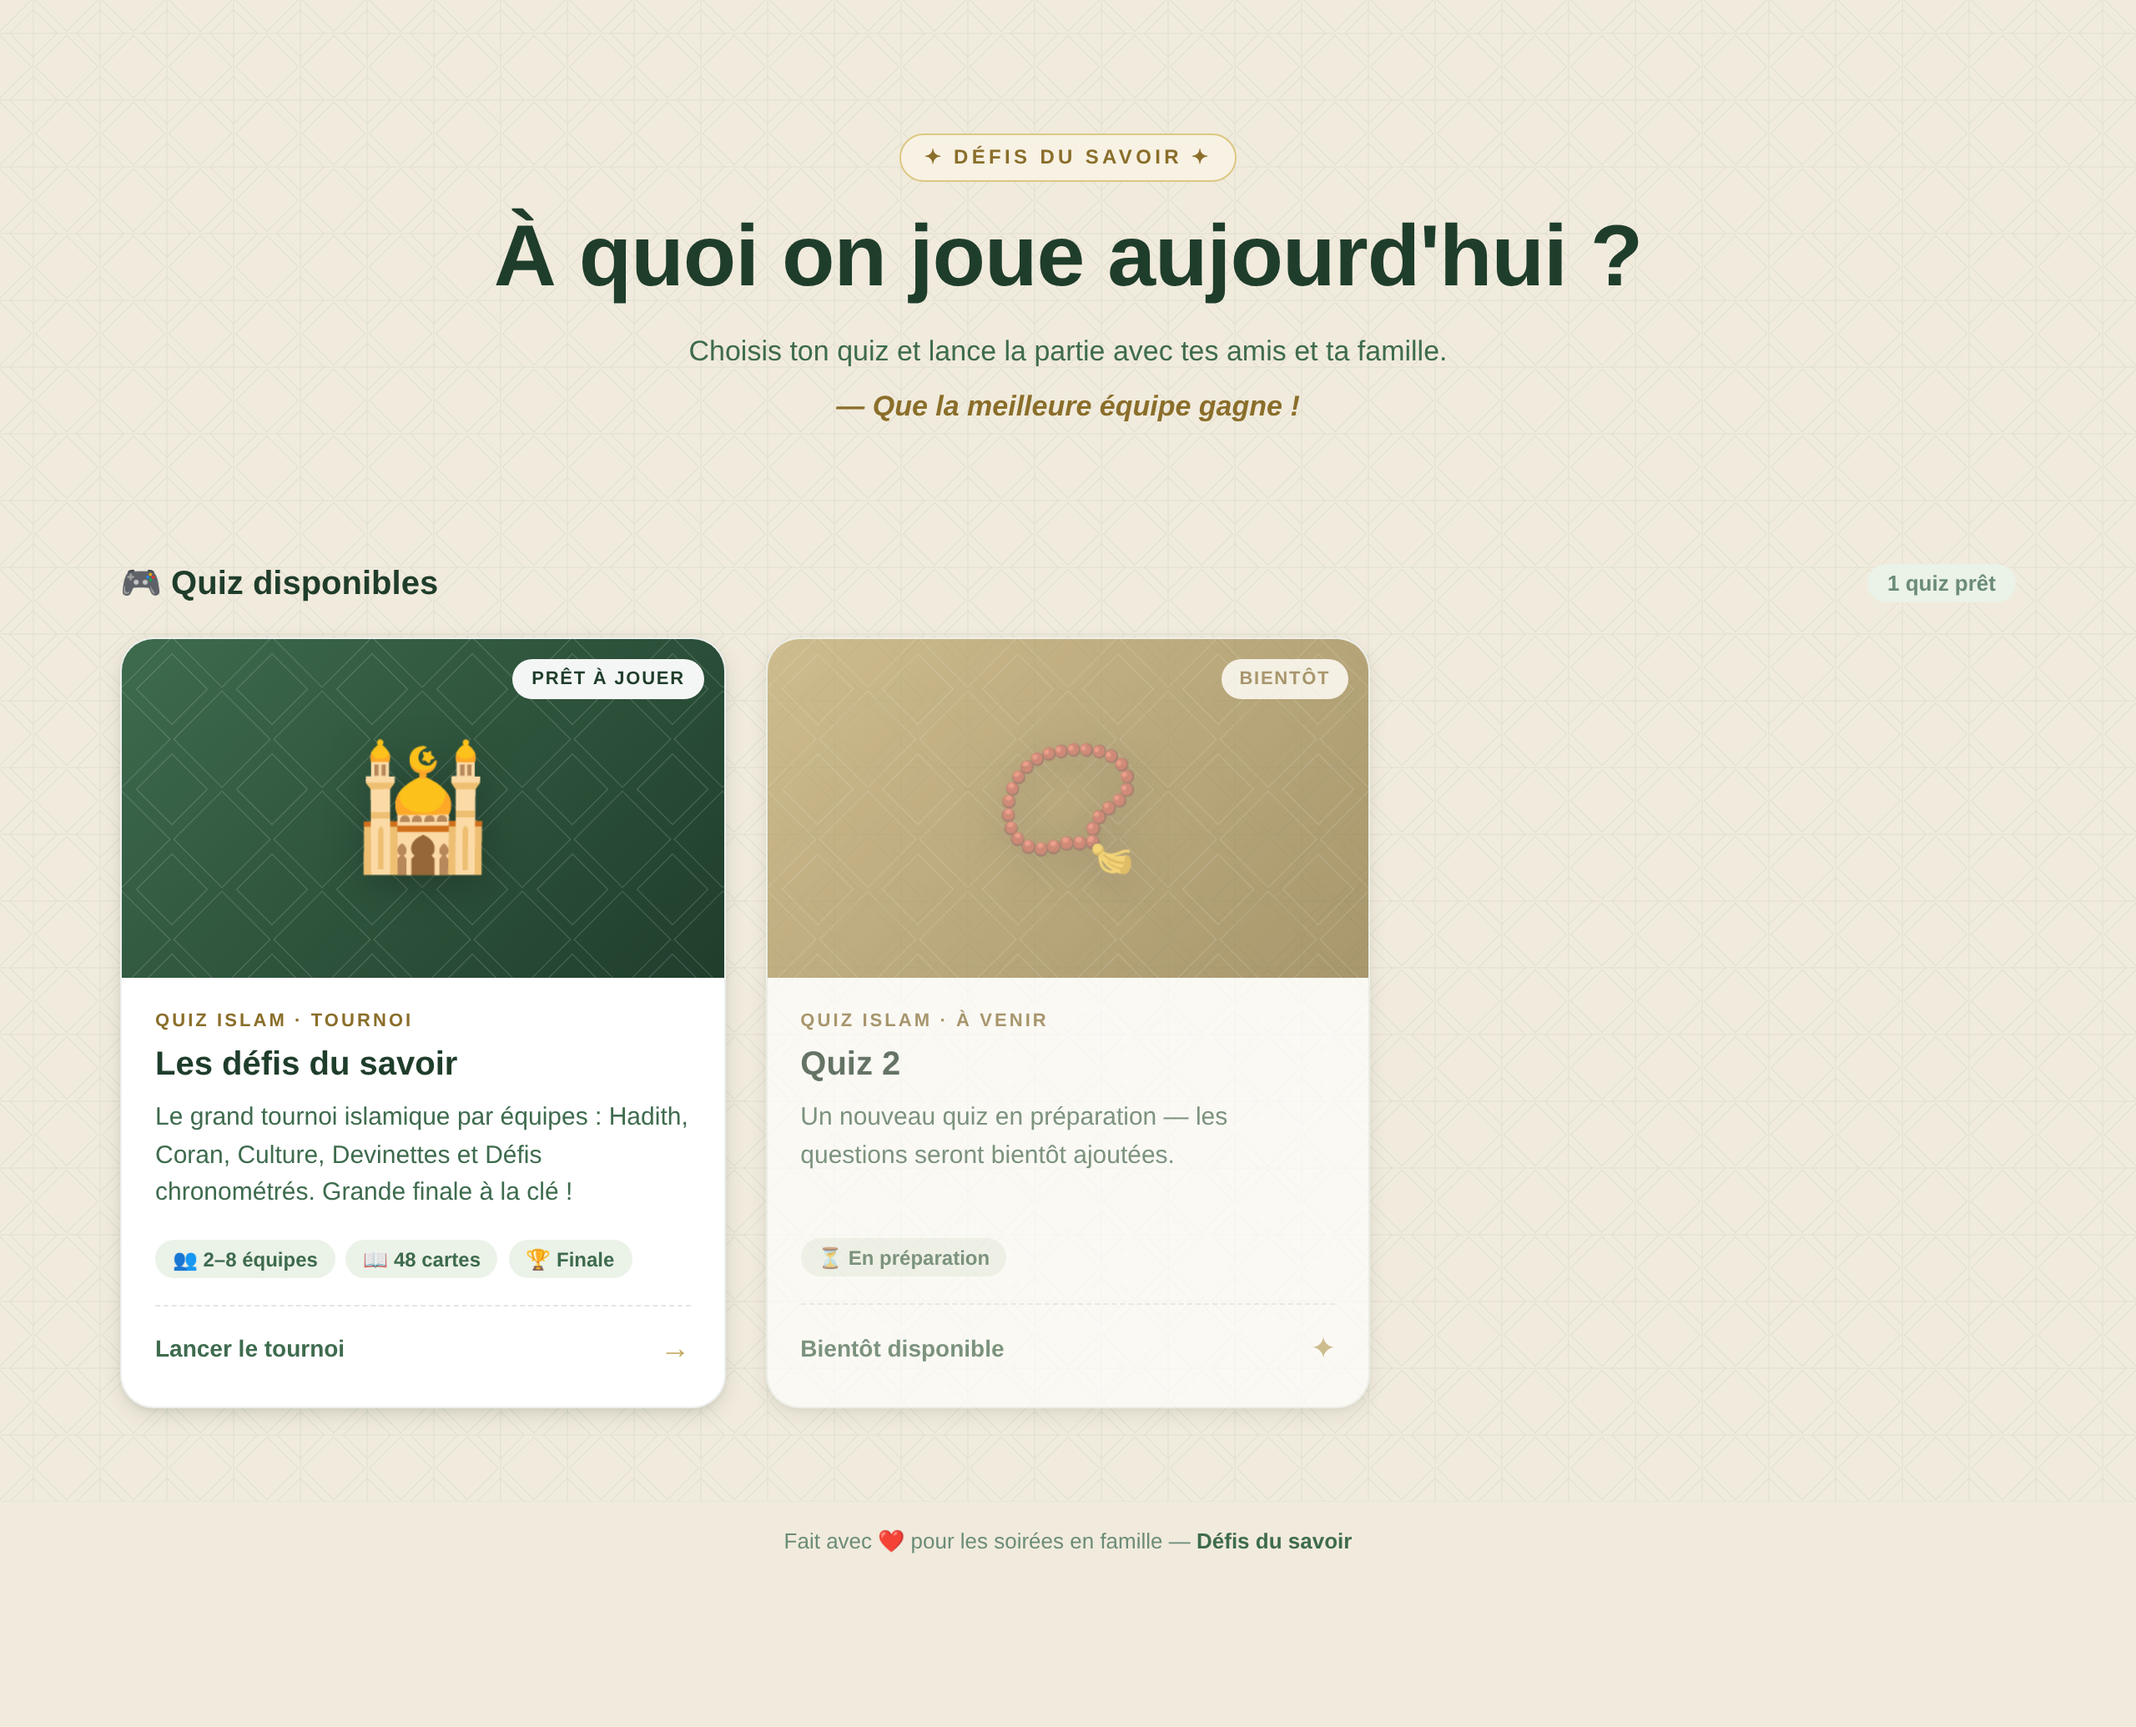
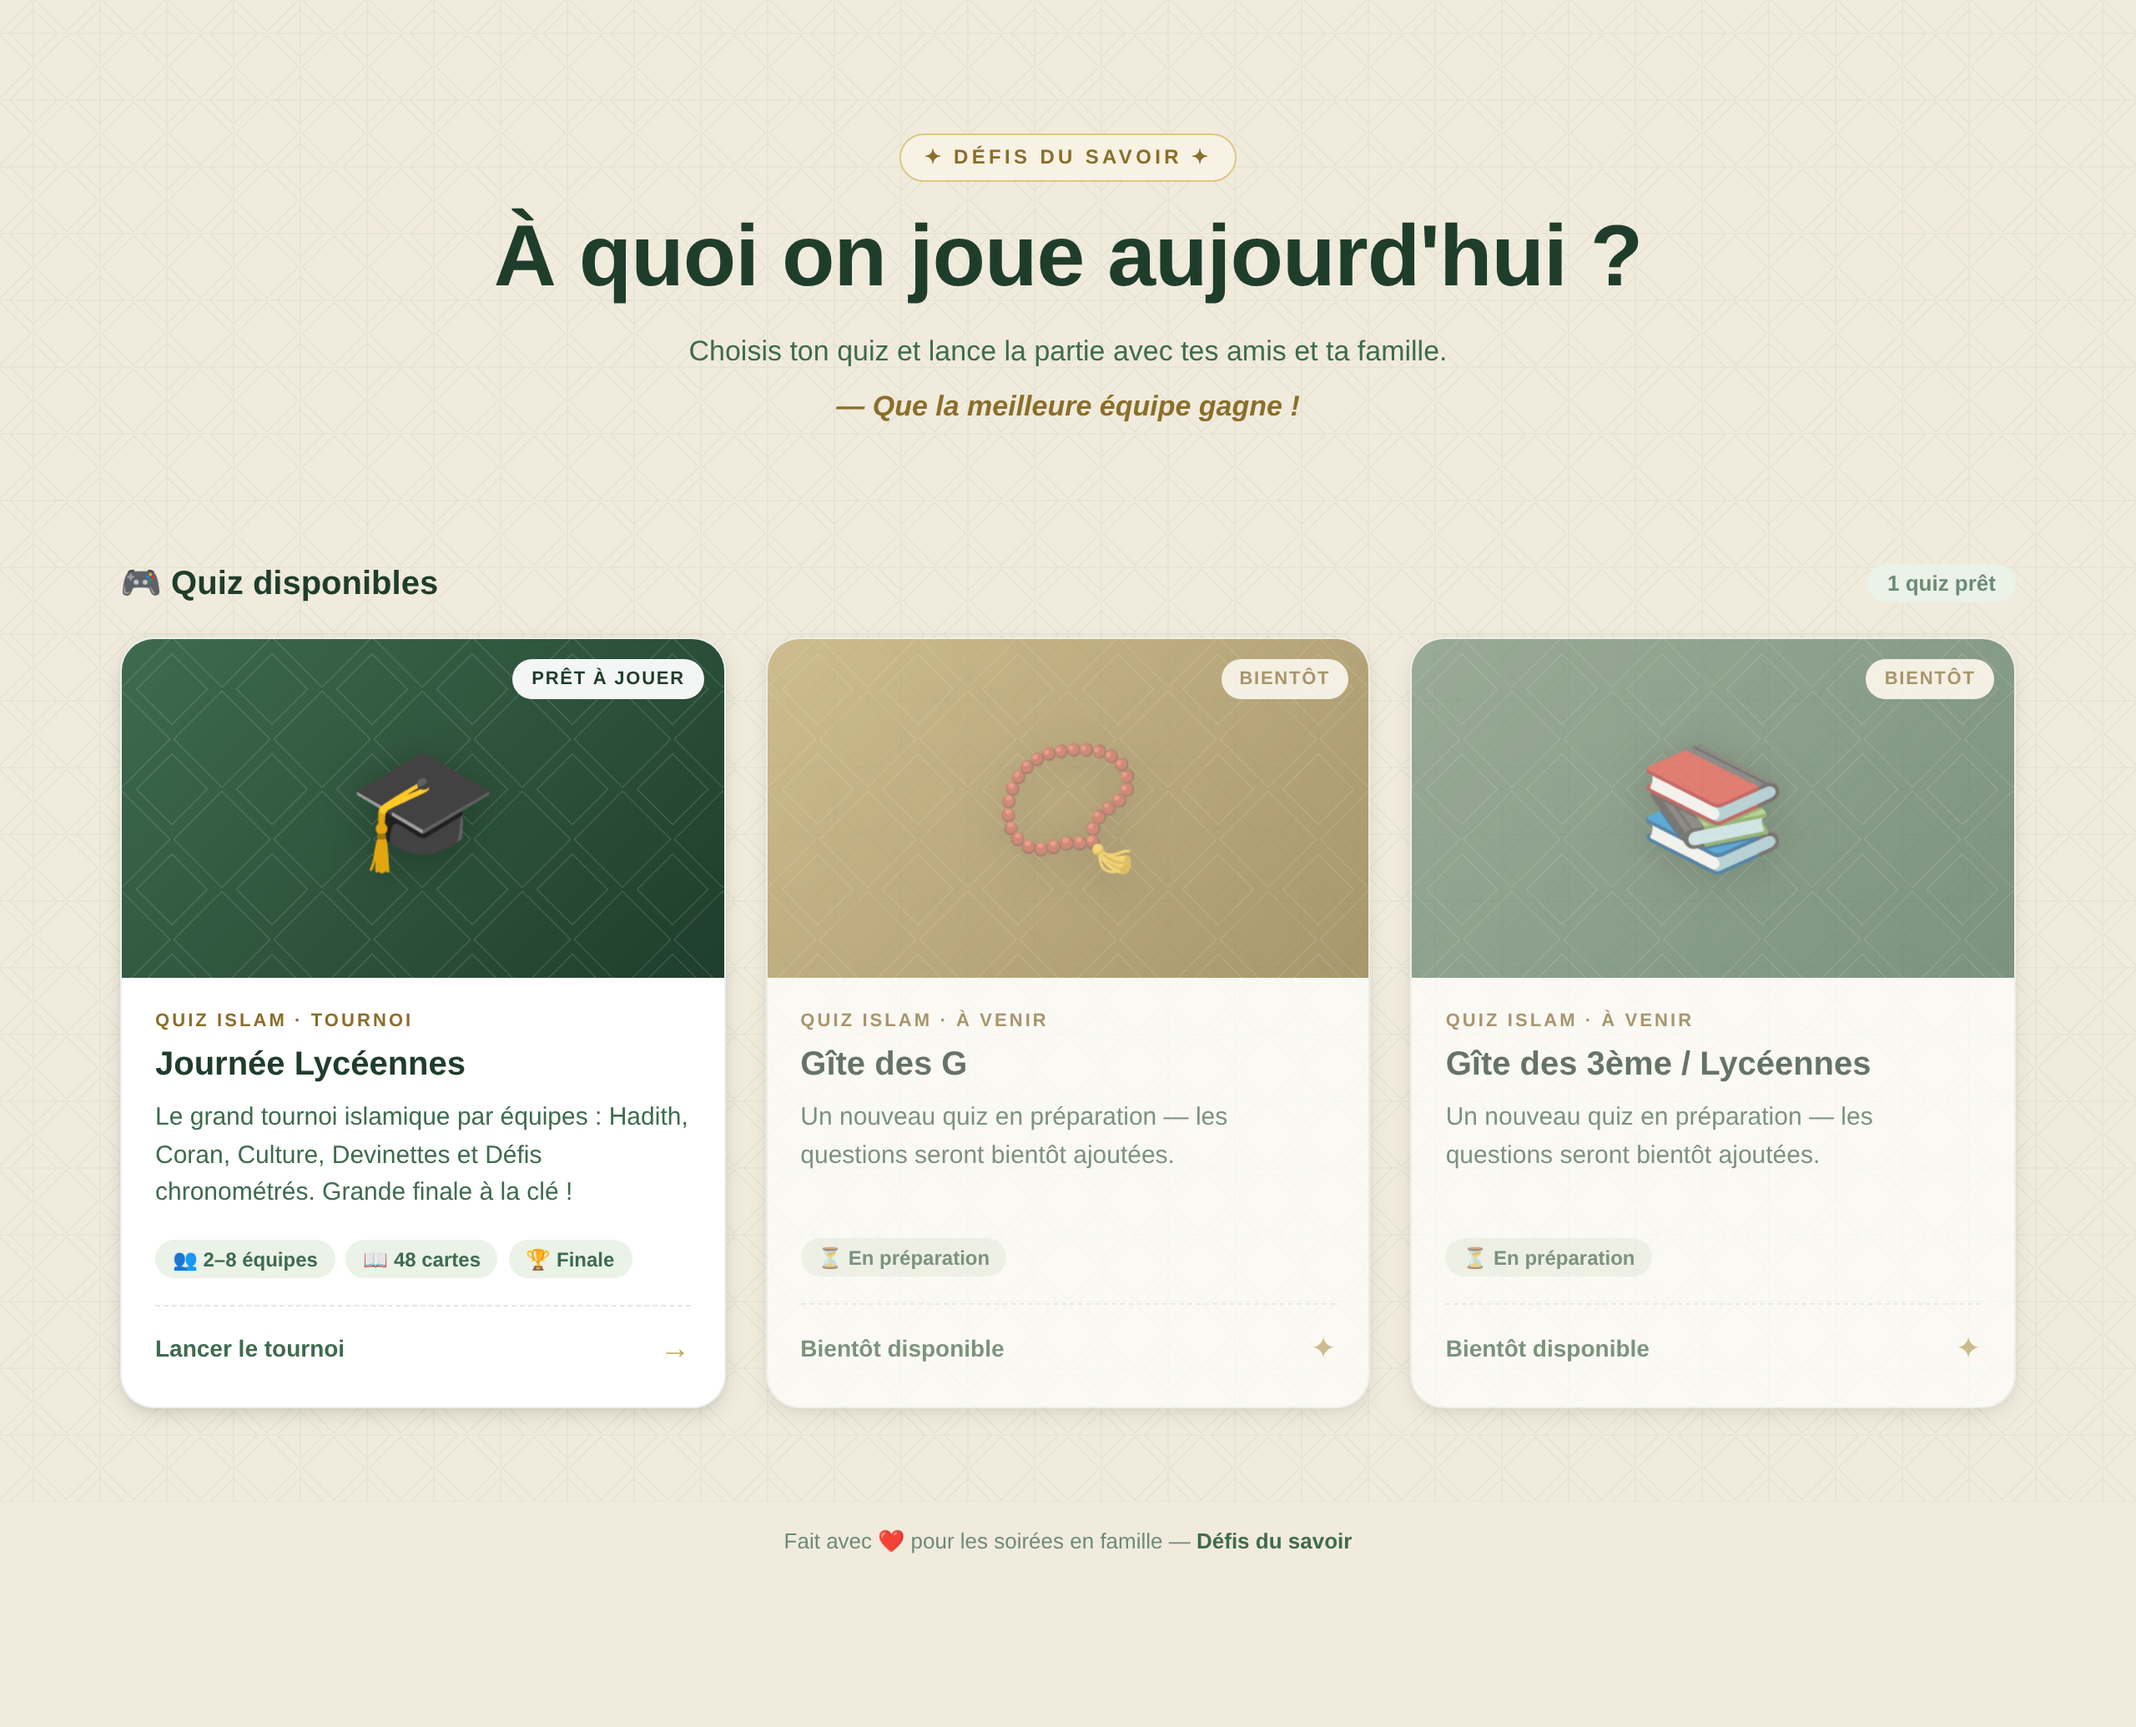
Rename quizzes and add Quiz 3 placeholder
- Quiz 1: "Les défis du savoir" → "Journée Lycéennes" (graduation cap emoji)
- Quiz 2: "Quiz 2" → "Gîte des G"
- Add Quiz 3 placeholder: "Gîte des 3ème / Lycéennes" (sage banner)

https://claude.ai/code/session_01QRbs2tiJZu4vdUTAHMHX7Y

diff --git a/index.html b/index.html
@@ -288,12 +288,12 @@
       <!-- ─── QUIZ 1 ────────────────────────────────────────────────────── -->
       <a href="quiz-1.html" class="quiz-card">
         <div class="card-banner">
-          <span class="card-emoji">🕌</span>
+          <span class="card-emoji">🎓</span>
           <span class="card-status">Prêt à jouer</span>
         </div>
         <div class="card-body">
           <p class="card-cat">Quiz Islam · Tournoi</p>
-          <h3 class="card-title">Les défis du savoir</h3>
+          <h3 class="card-title">Journée Lycéennes</h3>
           <p class="card-desc">
             Le grand tournoi islamique par équipes : Hadith, Coran,
             Culture, Devinettes et Défis chronométrés. Grande finale
@@ -319,7 +319,30 @@
         </div>
         <div class="card-body">
           <p class="card-cat">Quiz Islam · À venir</p>
-          <h3 class="card-title">Quiz 2</h3>
+          <h3 class="card-title">Gîte des G</h3>
+          <p class="card-desc">
+            Un nouveau quiz en préparation — les questions seront bientôt
+            ajoutées.
+          </p>
+          <div class="card-meta">
+            <span class="meta-chip">⏳ En préparation</span>
+          </div>
+          <div class="card-cta">
+            <span class="cta-label">Bientôt disponible</span>
+            <span class="cta-arrow">✦</span>
+          </div>
+        </div>
+      </div>
+
+      <!-- ─── QUIZ 3 (à venir) ──────────────────────────────────────────── -->
+      <div class="quiz-card disabled" aria-disabled="true">
+        <div class="card-banner sage">
+          <span class="card-emoji">📚</span>
+          <span class="card-status soon">Bientôt</span>
+        </div>
+        <div class="card-body">
+          <p class="card-cat">Quiz Islam · À venir</p>
+          <h3 class="card-title">Gîte des 3ème / Lycéennes</h3>
           <p class="card-desc">
             Un nouveau quiz en préparation — les questions seront bientôt
             ajoutées.
